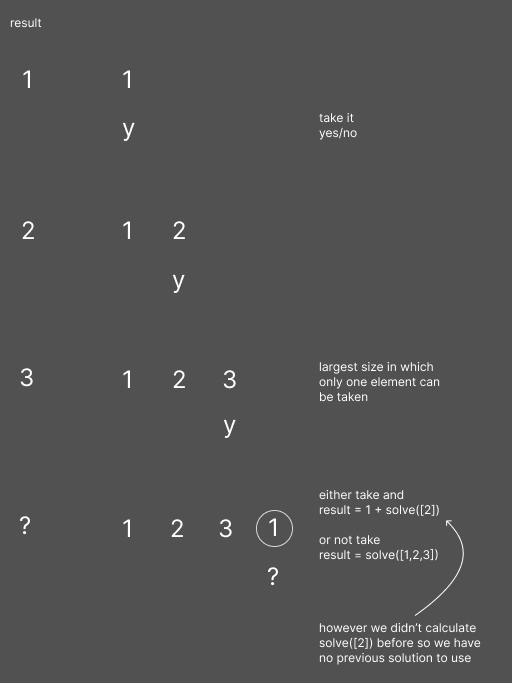
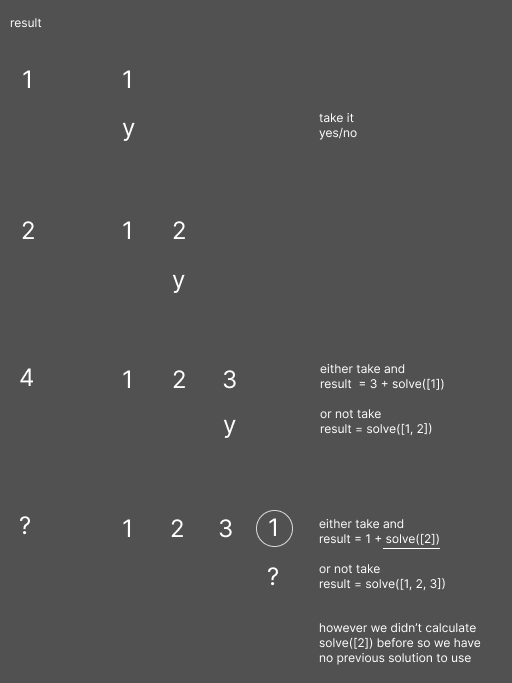
feat: update solution charts

Changed region(s): [[0.625, 0.7072, 0.9062, 0.8917], [0.625, 0.5227, 0.875, 0.6457], [0.0312, 0.5227, 0.0625, 0.5842]]

diff --git a/213-robber/solution.md b/213-robber/solution.md
@@ -6,14 +6,27 @@ https://leetcode.com/problems/house-robber-ii/
 ![img](./1-problem.png)
 
 # Attempt
-dynamic programming
-built from left to right
+Dynamic programming, growing from left to right.
 
 ![img](./2-dynamic-from-left-to-right.png)
 
-# Solution
-dynamic programming
-built in both directions
+# Mistake attempt
+Dynamic programming, growing in both directions.
+Always calculating as elements would be cycled.
+Which leads to mistakes in result when reusing previous results.
 
 ![img](./3-dynamic-in-both-directions.png)
 
+# More complex example
+
+![img](./3-longer-example.png)
+
+# Sketch of attempt
+Sketch of calcutating from top to bottom.
+With recursion and memoization.
+
+![img](./4-dynamic-top-bottom.png)
+
+# Solution
+
+![img](./5-dynamic-bottom-up-two-lists.png)
